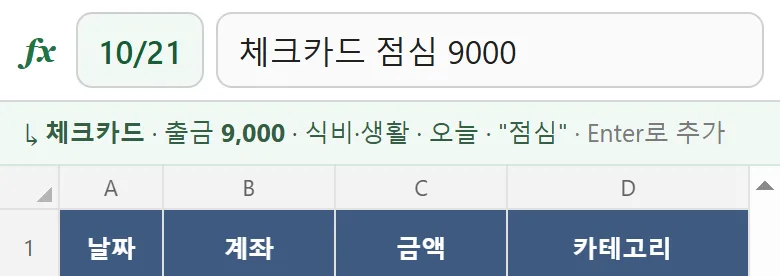
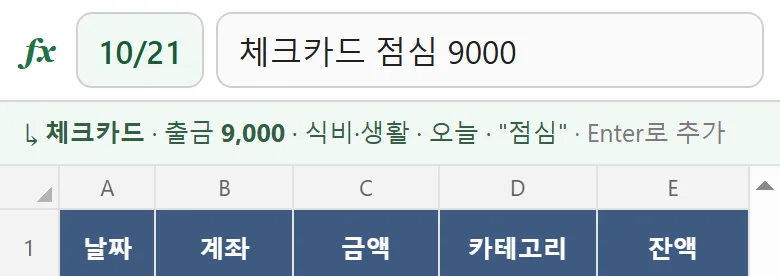
입력 표에 잔액 칸 항상 표시 (전체 계좌는 그 줄 계좌의 잔액), 잔액 켜기 버튼 삭제, 휴대폰 표 여백 조정

diff --git a/js/views.js b/js/views.js
@@ -111,6 +111,12 @@ function inputRows() {
     L0 = L0.filter(r => r.acct === id || r.to === id);
     let b = s <= st ? startBal(A(id)) : balAt(id, addD(s, -1));
     L0 = L0.map(r => { if (r.date >= st) b += delta(r, id); return { ...r, _bal: b }; });
+  } else {
+    const b = {}, at0 = x => b[x] ??= (s <= st ? startBal(A(x)) : balAt(x, addD(s, -1)));
+    L0 = L0.map(r => {
+      for (const x of [r.acct, r.to]) if (x && A(x)) { at0(x); if (r.date >= st) b[x] += delta(r, x); }
+      return { ...r, _bal: r.acct && A(r.acct) ? b[r.acct] : null }; // 그 줄 계좌의 거래 후 잔액
+    });
   }
   if (U.flt.t !== 'all') L0 = L0.filter(r => r.type === U.flt.t);
   if (U.flt.cats.length) L0 = L0.filter(r => U.flt.cats.includes(r.cat || '미분류'));
@@ -135,7 +141,8 @@ function cellHTML(r, k, acc) {
       return (r.cat ? catLbl(r.cat) : '') + (r._cbUse && (!acc || acc.id === r.acct) ? `<span class="cbx"> 캐시백 ${fmtU(r._cbUse)}</span>` : '');
     case 'memo': return esc(r.memo || '');
     case 'bal': {
-      const p = acc?.type === 'prepaid' && r._pp?.[acc.id]; // 충전식: 충전금 + 캐시백
+      if (r._bal == null) return '';
+      const pa = acc || A(r.acct), p = (acc || isWide()) && pa?.type === 'prepaid' && r._pp?.[pa.id]; // 충전식: 충전금 + 캐시백 (휴대폰 전체 계좌는 합계만)
       return p && p[1] ? `${fmtU(p[0])}<span class="cbx">+${fmtU(p[1])}</span>` : fmtU(r._bal);
     }
   }
@@ -143,14 +150,14 @@ function cellHTML(r, k, acc) {
 }
 function vInput() {
   const acc = U.acct ? A(U.acct) : null;
-  const showBal = acc && (acc.type === 'prepaid' || U.showBal);
+  const balL = acc?.type === 'prepaid' ? '충전+캐시백' : '잔액';
   const C = isWide()
-    ? (acc ? [{ k: 'date', w: 12, l: '날짜' }, { k: 'amt', w: 18, l: '금액', n: 1 }, { k: 'cat', w: 26, l: '카테고리' }, ...(showBal ? [{ k: 'bal', w: 18, l: acc.type === 'prepaid' ? '충전금 + 캐시백' : '잔액', n: 1 }] : []), { k: 'memo', w: showBal ? 26 : 44, l: '메모' }]
-      : [{ k: 'date', w: 11, l: '날짜' }, { k: 'acct', w: 18, l: '계좌' }, { k: 'amt', w: 16, l: '금액', n: 1 }, { k: 'cat', w: 23, l: '카테고리' }, { k: 'memo', w: 32, l: '메모' }])
+    ? (acc ? [{ k: 'date', w: 12, l: '날짜' }, { k: 'amt', w: 18, l: '금액', n: 1 }, { k: 'cat', w: 26, l: '카테고리' }, { k: 'bal', w: 18, l: acc.type === 'prepaid' ? '충전금 + 캐시백' : '잔액', n: 1 }, { k: 'memo', w: 26, l: '메모' }]
+      : [{ k: 'date', w: 10, l: '날짜' }, { k: 'acct', w: 16, l: '계좌' }, { k: 'amt', w: 14, l: '금액', n: 1 }, { k: 'cat', w: 20, l: '카테고리' }, { k: 'bal', w: 15, l: '잔액', n: 1 }, { k: 'memo', w: 25, l: '메모' }])
     : acc
-    ? (acc.type === 'prepaid' ? [{ k: 'date', w: 16, l: '날짜' }, { k: 'amt', w: 23, l: '금액', n: 1 }, { k: 'cat', w: 30, l: '카테고리' }, { k: 'bal', w: 31, l: '충전+캐시백', n: 1 }]
-      : [{ k: 'date', w: 17, l: '날짜' }, { k: 'amt', w: 25, l: '금액', n: 1 }, { k: 'cat', w: 33, l: '카테고리' }, showBal ? { k: 'bal', w: 25, l: '잔액', n: 1 } : { k: 'memo', w: 25, l: '메모' }])
-    : [{ k: 'date', w: 15, l: '날짜' }, { k: 'acct', w: 25, l: '계좌' }, { k: 'amt', w: 25, l: '금액', n: 1 }, { k: 'cat', w: 35, l: '카테고리' }];
+    ? (acc.type === 'prepaid' ? [{ k: 'date', w: 16, l: '날짜' }, { k: 'amt', w: 23, l: '금액', n: 1 }, { k: 'cat', w: 30, l: '카테고리' }, { k: 'bal', w: 31, l: balL, n: 1 }]
+      : [{ k: 'date', w: 16, l: '날짜' }, { k: 'amt', w: 25, l: '금액', n: 1 }, { k: 'cat', w: 31, l: '카테고리' }, { k: 'bal', w: 28, l: balL, n: 1 }])
+    : [{ k: 'date', w: 14, l: '날짜' }, { k: 'acct', w: 20, l: '계좌' }, { k: 'amt', w: 21, l: '금액', n: 1 }, { k: 'cat', w: 23, l: '카테고리' }, { k: 'bal', w: 22, l: '잔액', n: 1 }];
   const list = inputRows();
   for (const c of C) c.on = U.sel?.k === c.k;
   const rows = [{ n: 1, cls: 'frz', cells: C.map(c => ({ v: c.l, c: 'h' + (c.n ? ' num' : '') })) }];
@@ -195,7 +202,6 @@ function vInput() {
     sub: '입력', tb: tb(acctPill(U.acct, 'filter'), sep,
       `<button class="t${fltActive() || U.sort === 'desc' ? ' on' : ''}"${at('flt')} aria-label="필터·정렬">${ico('filter', 19)}<span class="wl">필터</span></button>`,
       `<button class="t${U.q ? ' on' : ''}"${at('search')} aria-label="검색">${ico('search', 19)}<span class="wl">검색</span></button>`,
-      acc && acc.type !== 'prepaid' ? `<button class="t txt${U.showBal ? ' on' : ''}"${at('bal')}>잔액</button>` : '',
       U.flt.p === 'month' ? `<div class="pill mini"><button class="ar"${at('mon', { k: -1 })} aria-label="이전 달">◀</button><span>${mShort(U.month)}</span><button class="ar"${at('mon', { k: 1 })} aria-label="다음 달">▶</button></div>` : `<span class="t txt" style="color:var(--muted)">${periodLbl}</span>`),
     qbar: S.accounts.length ? qbar : '', body: S.accounts.length ? tipBar() + recapCard() + table(C, rows, { nofill: 1 }) : noAccounts(),
     l: accLbl, items, err: miss ? `<button${at('fixMissing', { id: firstMiss })}>빈 칸 ${miss}개 채우기 ›</button>` : '',

diff --git a/js/ui.js b/js/ui.js
@@ -1,7 +1,7 @@
 'use strict';
 // 화면 공통: 테마, 화면 높이, 화면 상태, 표 그리기, 아래 창, 위·아래 틀
 /* ---------- 앱 버전 · 화면 테마 · 화면 높이 ---------- */
-const APP_VER = '2026.10.21-15';
+const APP_VER = '2026.10.21-16';
 // 화면 테마: auto(휴대폰 설정 따라감) / light / dark
 const THK = KEY + '.theme';
 const themePref = () => { try { return localStorage.getItem(THK) || 'auto'; } catch (e) { return 'auto'; } };
@@ -40,10 +40,10 @@ window.addEventListener('resize', () => { if (!isWide() || innerWidth === lastW)
 const zoomF = () => isWide() ? (U.zoom || 100) / 100 : 1;
 
 /* ---------- UI state ---------- */
-const U = { tab: 'dash', month: ym(TODAY()), acct: null, detail: null, sel: null, unit: 'won', showBal: false, sort: 'asc', q: '',
+const U = { tab: 'dash', month: ym(TODAY()), acct: null, detail: null, sel: null, unit: 'won', sort: 'asc', q: '',
   flt: { p: 'month', t: 'all', cats: [] }, col: {}, setTab: 'acct' };
 try { Object.assign(U, JSON.parse(localStorage.getItem(UIKEY) || '{}'), { month: ym(TODAY()), sel: null, q: '' }); } catch (e) { }
-function saveUI() { try { const { tab, acct, unit, showBal, sort, col, setTab, recapSeen, zoom } = U; localStorage.setItem(UIKEY, JSON.stringify({ tab, acct, unit, showBal, sort, col, setTab, recapSeen, zoom })); } catch (e) { } }
+function saveUI() { try { const { tab, acct, unit, sort, col, setTab, recapSeen, zoom } = U; localStorage.setItem(UIKEY, JSON.stringify({ tab, acct, unit, sort, col, setTab, recapSeen, zoom })); } catch (e) { } }
 const fmtU = n => { if (U.unit !== 'man' || Math.abs(n) < 10000) return fmt(n); const v = n / 10000; return (Math.abs(v) >= 100 ? Math.round(v).toLocaleString('ko-KR') : v.toFixed(1)) + '만'; };
 
 /* ---------- rendering helpers ---------- */

diff --git a/tests/test.js b/tests/test.js
@@ -332,6 +332,13 @@ loadDemo(cb); cb.U.acct = null; cb.U.sort = 'asc'; cb.U.flt = { p: 'month', t: '
       A.cell({ id: o.id, k: 'amt' }); ok(d.querySelector('#sheet-root.on .kpt [data-v="in"]'), 'keypad has 출금/입금/이동');
       A.kpType({ id: o.id, v: 'in' }); ok(cb.S.tx.find(x => x.id === o.id).type === 'in' && d.querySelector('#sheet-root.on #kpr'), 'switch to 입금 keeps keypad open'); A.close({});
       ok(d.querySelector(`#grid tr[data-id="${o.id}"] td[data-k="amt"]`).classList.contains('ami'), 'income amount blue'); }
+    // 잔액 칸은 항상 (전체 계좌도: 그 줄 계좌의 거래 후 잔액)
+    { loadDemo(cb); cb.U.acct = null; cb.U.flt = { p: 'month', t: 'all', cats: [] }; cb.U.sort = 'asc'; A.tab({ v: 'input' });
+      ok([...d.querySelectorAll('#grid tr.frz td')].some(x => x.textContent === '잔액') && !d.querySelector('.tb [data-a="bal"]'), 'balance column always shown, no toggle');
+      const bk = cb.S.accounts.find(x => x.name === '생활비통장'), rows = [...d.querySelectorAll('#grid tr[data-a="cell"]')].filter(tr => cb.led().find(r => r.id === tr.dataset.id)?.acct === bk.id);
+      const lastTr = rows[rows.length - 1], lastR = cb.led().find(r => r.id === lastTr.dataset.id);
+      ok(+lastTr.querySelector('td[data-k="bal"]').textContent.replace(/[^\d-]/g, '') === cb.balAt(bk.id, cb.util.TODAY()), 'all-accounts row shows its account balance after that row');
+      cb.U.acct = bk.id; A.tab({ v: 'input' }); ok([...d.querySelectorAll('#grid tr.frz td')].some(x => x.textContent === '잔액'), 'bank account view shows 잔액'); }
     // 잔액 맞추기
     { loadDemo(cb); const bk = cb.S.accounts.find(x => x.name === '생활비통장'), m = cb.util.TODAY().slice(0, 7);
       const b0 = cb.balAt(bk.id, cb.util.TODAY()), st0 = cb.mstats(m);

diff --git a/js/edit.js b/js/edit.js
@@ -241,7 +241,6 @@ ACT.fltSet = d => { U.flt = { ...U.flt, [d.k]: d.v }; render(); fltSheet(); };
 ACT.fltCat = d => { const c = U.flt.cats.includes(d.v) ? U.flt.cats.filter(x => x !== d.v) : [...U.flt.cats, d.v]; U.flt = { ...U.flt, cats: c }; render(); fltSheet(); };
 ACT.fltReset = () => { U.flt = { p: 'month', t: 'all', cats: [] }; U.sort = 'asc'; render(); fltSheet(); };
 ACT.sortSet = d => { U.sort = d.v; render(); fltSheet(); };
-ACT.bal = () => { U.showBal = !U.showBal; render(); };
 ACT.search = () => {
   openSheet(`${bh('검색', '메모·카테고리·계좌')}<div class="fld"><input id="qIn" value="${esc(U.q)}" placeholder="예: 스타벅스" autofocus></div>
     <div class="row2" style="margin-top:10px"><button class="btn" style="height:44px"${at('qSet', { clear: 1 })}>지우기</button><button class="btn pri" style="height:44px"${at('qSet')}>검색</button></div>`);

diff --git a/sw.js b/sw.js
@@ -1,5 +1,5 @@
 // 오프라인 실행용 서비스 워커 — 앱 파일만 캐시하고, 가계부 데이터는 다루지 않는다.
-const VER = 'cellbook-v10';
+const VER = 'cellbook-v11';
 const SHELL = ['./', './index.html', './app.css', './js/core.js', './js/ui.js', './js/views.js', './js/quick.js', './js/pages.js', './js/extras.js', './js/edit.js', './js/data.js', './js/boot.js', './err.js', './head.js', './config.js', './manifest.webmanifest', './icon.svg', './icon-192.png', './icon-512.png'];
 const FB = 'https://www.gstatic.com/firebasejs/';
 

diff --git a/app.css b/app.css
@@ -462,3 +462,6 @@ html.wide,html.wide body{background:var(--bg3)}
 .kpt{margin:0 14px 10px}
 .kpt button.on.t-out{background:var(--neg);color:#fff}
 .kpt button.on.t-in{background:var(--blue);color:#fff}
+/* 휴대폰 입력 표: 칸이 많아 안쪽 여백을 줄임 */
+html:not(.wide) .t-input .sh td:not(.rn){padding:0 4px}
+html:not(.wide) .t-input .chip-a{padding:1px 5px}
